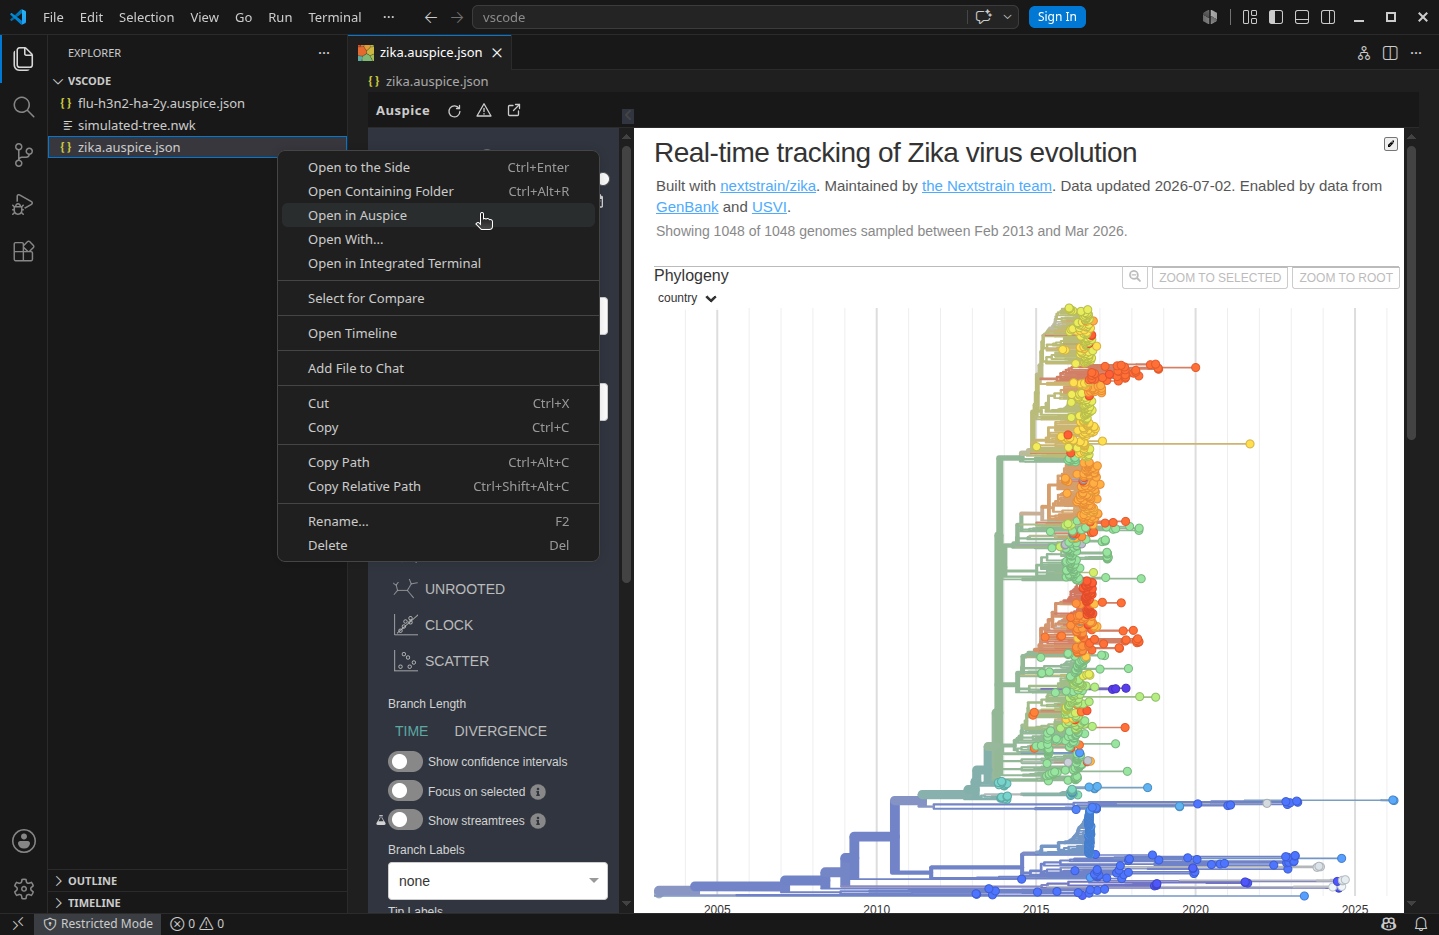
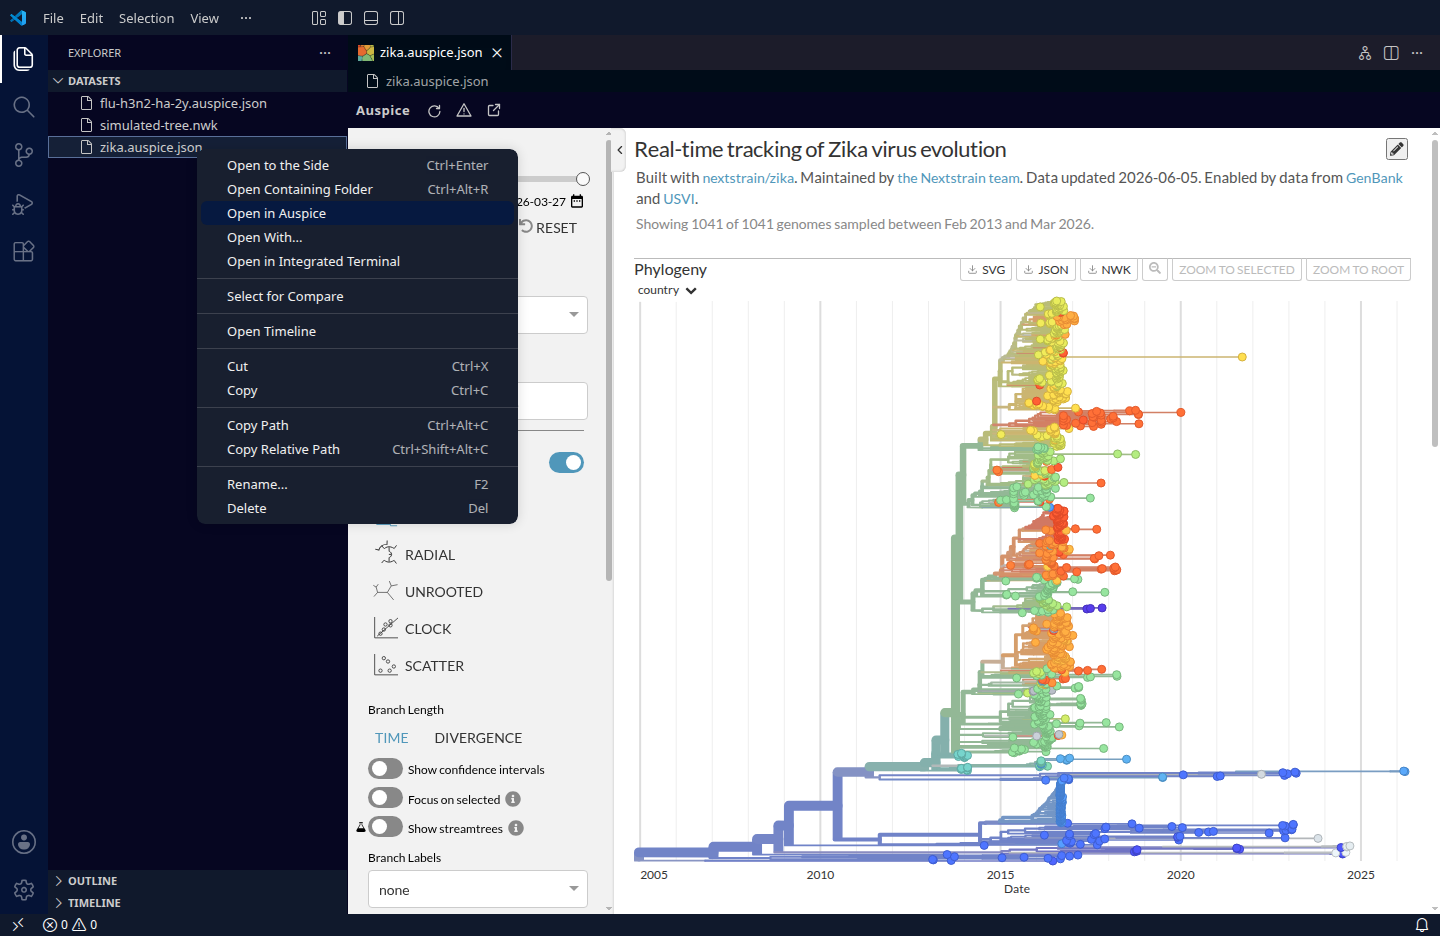
docs: describe the folding sidebar and the WebGL need of maps
- The screenshot shows the light sidebar with its pull tab and the tree fitted to the editor

diff --git a/README.md b/README.md
@@ -40,7 +40,7 @@ Alternatively, open the Extensions view, select **Views and More Actions...**, c
 - **Sidecars**: sibling `_tip-frequencies`, `_measurements`, and `_root-sequence` files attach automatically.
 - **Metadata**: apply CSV, TSV, XLSX, or node-data JSON to the active view.
 - **Comparison and narratives**: open a second tree in a tangle view, or render a local Markdown narrative with its referenced datasets.
-- **Full sidebar**: the stock Auspice controls for color, filters, dates, animation, layout, labels, and panels.
+- **Full sidebar**: the stock Auspice controls for color, filters, dates, animation, layout, labels, and panels. The tab on its edge folds it away and back; the tree always fills the space beside it.
 - **Downloads**: the SVG, JSON, and NWK buttons above the tree save the current view as a figure, an Auspice dataset, or a Newick tree. The save dialog proposes a file next to the dataset, named after it.
 
 Each primary dataset opens in its own tab with an independent store and file lifecycle.
@@ -80,6 +80,7 @@ All settings live under `auspiceVscode.*` and can be set globally or per workspa
   "auspiceVscode.largeTreeTipAdvisory": 5000,
 
   // Show maps and let background tiles load from OpenFreeMap (tiles.openfreemap.org). Dataset files always stay local.
+  // Maps need WebGL; a window without it (e.g. with hardware acceleration disabled) hides the map and reports why.
   //   false [default]: maps off; no external tile requests
   //   true: maps on; background tiles load from OpenFreeMap
   "auspiceVscode.mapsEnabled": false,
